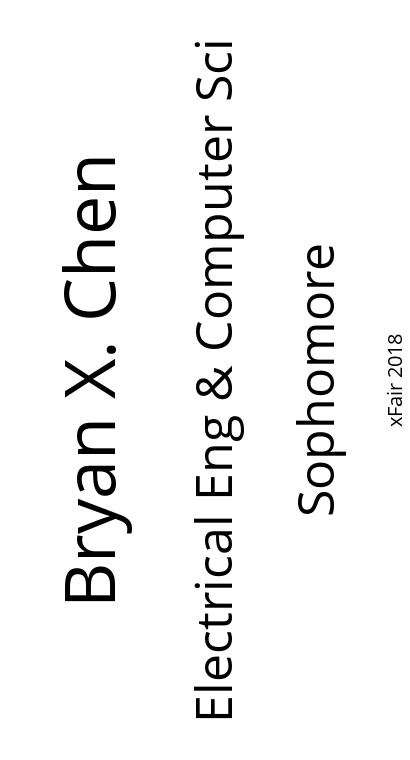
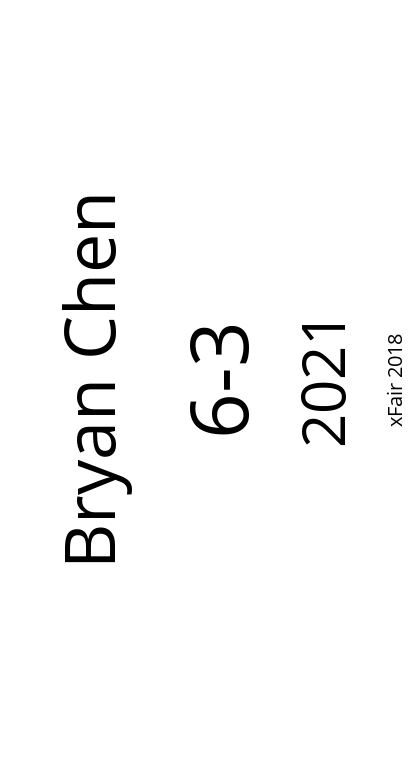
fixes for custom submission

Changed region(s): [[0.4683, 0.0303, 0.6146, 0.9684], [0.1463, 0.1816, 0.322, 0.8171], [0.7317, 0.3026, 0.8488, 0.6961]]

diff --git a/checkin/templates/custom.html b/checkin/templates/custom.html
@@ -22,7 +22,12 @@
                 <small class="text-muted">Custom form</small>
             </h1>
             <form action="/print" method="POST">
-                <input type="hidden" name="kerberos" value="custom">
+                <div class="form-group row">
+                    <label for="kerberos" class="col-sm-2 col-form-label">Kerberos</label>
+                    <div class="col-sm-10">
+                      <input name="kerberos" type="text" class="form-control" id="kerberos" placeholder="Kerberos">
+                    </div>
+                </div>
                 <div class="form-group row">
                   <label for="name" class="col-sm-2 col-form-label">Name</label>
                   <div class="col-sm-10">
@@ -34,6 +39,12 @@
                   <div class="col-sm-10">
                     <input name="major" type="text" class="form-control" id="major" placeholder="Major(s)">
                   </div>
+                </div>
+                <div class="form-group row">
+                    <label for="year" class="col-sm-2 col-form-label">Class Year</label>
+                    <div class="col-sm-10">
+                      <input name="year" type="text" class="form-control" id="year" placeholder="Class Year">  
+                    </div>
                 </div>
                 <div class="form-group row">
                   <div class="offset-sm-2 col-sm-10">
